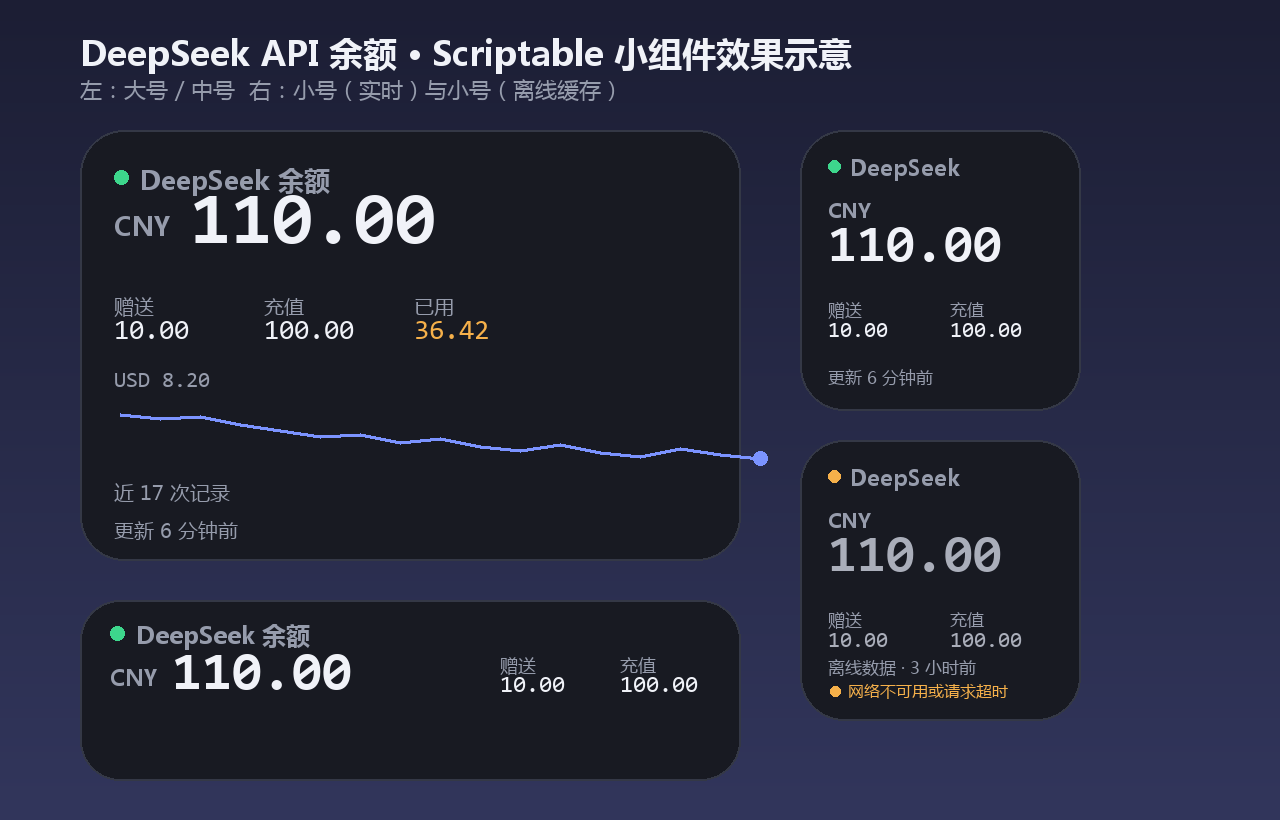
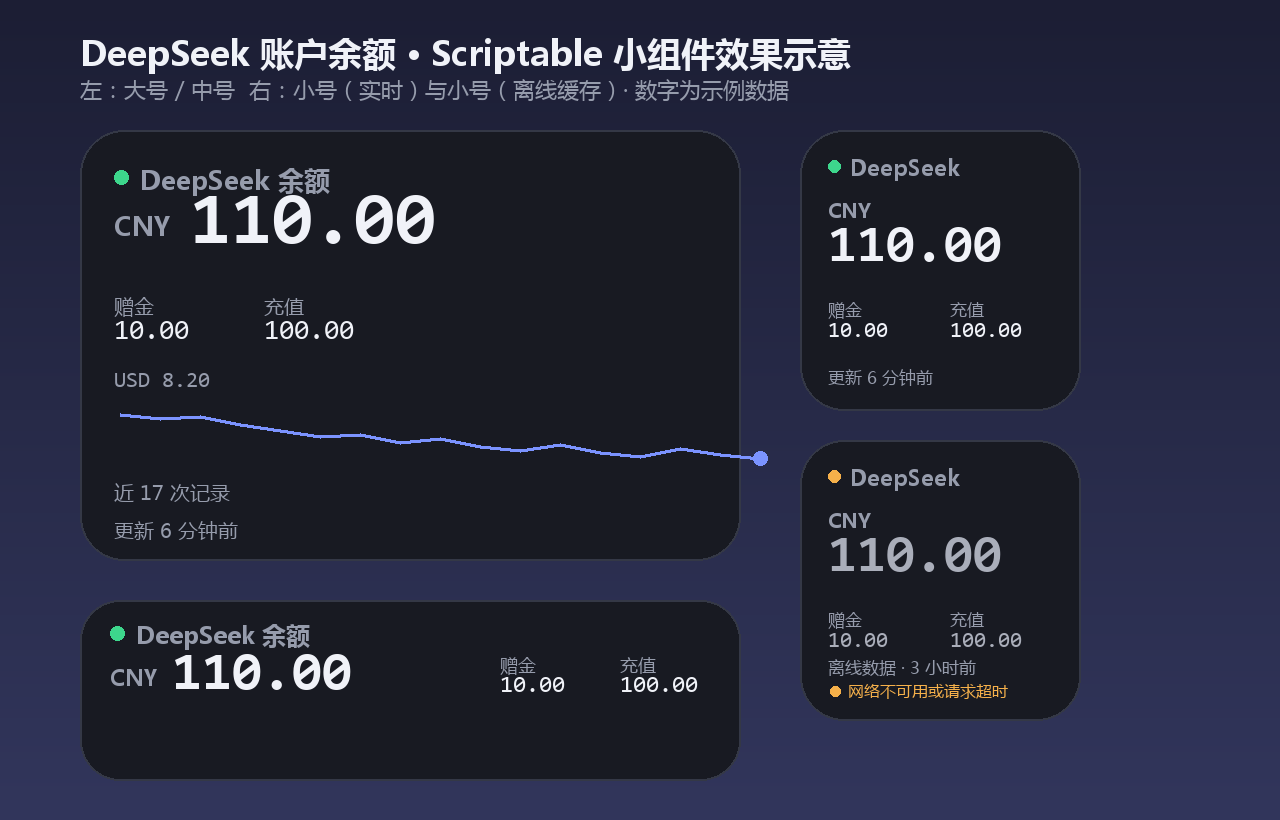
fix: drop misleading 'used' figure, clarify balance vs usage
- 移除组件里的「已用」行：接口语义是 total_balance = granted + topped_up，
  该推导值恒为 0，容易被误读成 token 用量
- 赠送 -> 赠金，与官方文案（未过期的赠金余额）一致
- 效果图改用真实构成的示例数据并标注
- README 增加「显示的是账户余额而非用量」说明与官方文档链接

diff --git a/DeepSeekBalance.js b/DeepSeekBalance.js
@@ -386,10 +386,14 @@ function buildDetailRows(root, primary, compact) {
     t2.textColor = color || C.text;
   };
 
-  mk("赠送", toNumber(primary.granted).toFixed(2));
+  // 接口语义（官方文档 /user/balance）：
+  //   total_balance      = 总的可用余额，包括赠金和充值余额
+  //   granted_balance    = 未过期的赠金余额
+  //   topped_up_balance  = 充值余额
+  // 即 total = granted + toppedUp，所以这里只列构成，不推导"已用"
+  // （曾经加过一行"已用 = 赠送+充值-总额"，它恒为 0，容易让人误以为显示的是用量）
+  mk("赠金", toNumber(primary.granted).toFixed(2));
   mk("充值", toNumber(primary.toppedUp).toFixed(2));
-  const used = Math.max(0, toNumber(primary.granted) + toNumber(primary.toppedUp) - toNumber(primary.total));
-  if (used > 0.005) mk("已用", used.toFixed(2), C.warn);
   return row;
 }
 
@@ -535,7 +539,7 @@ function detailText(state) {
   (state.data.balanceInfos || []).forEach((b) => {
     lines.push("[" + b.currency + "]");
     lines.push("  总额：" + toNumber(b.total).toFixed(2));
-    lines.push("  赠送：" + toNumber(b.granted).toFixed(2));
+    lines.push("  赠金：" + toNumber(b.granted).toFixed(2));
     lines.push("  充值：" + toNumber(b.toppedUp).toFixed(2));
     lines.push("");
   });

diff --git a/index.html b/index.html
@@ -41,7 +41,7 @@
 <body>
 <div class="wrap">
   <h1>DeepSeek 余额小组件 <span class="tag">Scriptable</span></h1>
-  <div class="muted">在 iPhone 桌面直接看 DeepSeek API 余额 · 赠送 / 充值 / 已用 · 多币种 · 离线缓存</div>
+  <div class="muted">在 iPhone 桌面直接看 DeepSeek 账户余额 · 赠金 / 充值构成 · 多币种 · 离线缓存</div>
 
   <div class="card">
     <h2>① 复制脚本</h2>

diff --git a/make_preview.py b/make_preview.py
@@ -45,7 +45,7 @@ d.text((x0 + 60, y0 + 32), "DeepSeek 余额", font=f(MSYHB, 26), fill=DIM)
 d.text((x0 + 34, y0 + 78), "CNY", font=f(MSYHB, 26), fill=DIM)
 d.text((x0 + 110, y0 + 58), "110.00", font=f(CONSB, 74), fill=TEXT)
 
-labels = [("赠送", "10.00", TEXT), ("充值", "100.00", TEXT), ("已用", "36.42", WARN)]
+labels = [("赠金", "10.00", TEXT), ("充值", "100.00", TEXT)]
 cx = x0 + 34
 for name, val, col in labels:
     d.text((cx, y0 + 162), name, font=f(MSYH, 20), fill=DIM)
@@ -74,7 +74,7 @@ d.text((mx0 + 56, my0 + 18), "DeepSeek 余额", font=f(MSYHB, 24), fill=DIM)
 d.text((mx0 + 30, my0 + 62), "CNY", font=f(MSYHB, 22), fill=DIM)
 d.text((mx0 + 92, my0 + 48), "110.00", font=f(CONSB, 54), fill=TEXT)
 cx = mx0 + 420
-for name, val in [("赠送", "10.00"), ("充值", "100.00")]:
+for name, val in [("赠金", "10.00"), ("充值", "100.00")]:
     d.text((cx, my0 + 52), name, font=f(MSYH, 18), fill=DIM)
     d.text((cx, my0 + 74), val, font=f(CONS, 24), fill=TEXT)
     cx += 120
@@ -87,7 +87,7 @@ d.ellipse((sx0 + 28, sy0 + 30, sx0 + 40, sy0 + 42), fill=OK)
 d.text((sx0 + 50, sy0 + 22), "DeepSeek", font=f(MSYHB, 22), fill=DIM)
 d.text((sx0 + 28, sy0 + 66), "CNY", font=f(MSYHB, 20), fill=DIM)
 d.text((sx0 + 28, sy0 + 92), "110.00", font=f(CONSB, 52), fill=TEXT)
-d.text((sx0 + 28, sy0 + 168), "赠送", font=f(MSYH, 17), fill=DIM)
+d.text((sx0 + 28, sy0 + 168), "赠金", font=f(MSYH, 17), fill=DIM)
 d.text((sx0 + 28, sy0 + 190), "10.00", font=f(CONS, 22), fill=TEXT)
 d.text((sx0 + 150, sy0 + 168), "充值", font=f(MSYH, 17), fill=DIM)
 d.text((sx0 + 150, sy0 + 190), "100.00", font=f(CONS, 22), fill=TEXT)
@@ -101,7 +101,7 @@ d.ellipse((ox0 + 28, oy0 + 30, ox0 + 40, oy0 + 42), fill=WARN)
 d.text((ox0 + 50, oy0 + 22), "DeepSeek", font=f(MSYHB, 22), fill=DIM)
 d.text((ox0 + 28, oy0 + 66), "CNY", font=f(MSYHB, 20), fill=DIM)
 d.text((ox0 + 28, oy0 + 92), "110.00", font=f(CONSB, 52), fill=(170, 174, 186))
-d.text((ox0 + 28, oy0 + 168), "赠送", font=f(MSYH, 17), fill=DIM)
+d.text((ox0 + 28, oy0 + 168), "赠金", font=f(MSYH, 17), fill=DIM)
 d.text((ox0 + 28, oy0 + 190), "10.00", font=f(CONS, 22), fill=(170, 174, 186))
 d.text((ox0 + 150, oy0 + 168), "充值", font=f(MSYH, 17), fill=DIM)
 d.text((ox0 + 150, oy0 + 190), "100.00", font=f(CONS, 22), fill=(170, 174, 186))
@@ -110,8 +110,8 @@ d.ellipse((ox0 + 30, oy1 - 34, ox0 + 40, oy1 - 24), fill=WARN)
 d.text((ox0 + 48, oy1 - 40), "网络不可用或请求超时", font=f(MSYH, 16), fill=WARN)
 
 # 底部说明
-d.text((80, 30), "DeepSeek API 余额 · Scriptable 小组件效果示意", font=f(MSYHB, 34), fill=TEXT)
-d.text((80, 74), "左：大号 / 中号  右：小号（实时）与小号（离线缓存）", font=f(MSYH, 22), fill=DIM)
+d.text((80, 30), "DeepSeek 账户余额 · Scriptable 小组件效果示意", font=f(MSYHB, 34), fill=TEXT)
+d.text((80, 74), "左：大号 / 中号  右：小号（实时）与小号（离线缓存）· 数字为示例数据", font=f(MSYH, 22), fill=DIM)
 
 img.save("preview.png")
 print("preview.png", img.size)

diff --git a/README.md b/README.md
@@ -1,6 +1,6 @@
 # DeepSeek API 余额 · iOS 桌面小组件
 
-在 iPhone / iPad 主屏上直接看 DeepSeek 开放平台账户余额（总额、赠送、充值、已用、多币种、历史走势）。
+在 iPhone / iPad 主屏上直接看 DeepSeek 开放平台**账户余额**（总可用余额、赠金构成、充值构成、多币种、历史走势）。
 
 方案：**Scriptable 小组件**。不需要 Mac、不需要 Xcode、不需要 Apple 开发者账号，App Store 装一个免费 App 即可。
 
@@ -116,7 +116,10 @@ node _transfer/serve.mjs
 
 - **圆点颜色**：绿 = 实时数据，黄 = 网络失败正在显示缓存，红 = 出错 / 未配 Key。
 - **大号数字**：主货币总额（`total_balance`）。
-- **赠送 / 充值 / 已用**：`granted_balance`、`topped_up_balance`，以及两者之和减总额得到的已用量。
+- **赠金 / 充值**：`granted_balance`（未过期的赠金余额）与 `topped_up_balance`（充值余额），两者之和即上面的总额。
+  > 显示的是**账户余额**，不是 token 用量。接口是官方 `GET /user/balance`（[文档](https://api-docs.deepseek.com/zh-cn/api/get-user-balance)），
+  > 字段含义：`total_balance` = 总的可用余额（含赠金+充值）。token 消耗 / 消费金额请看 [platform.deepseek.com/usage](https://platform.deepseek.com/usage)，
+  > 该数据**没有公开 API**，所以小组件取不到。
 - **多币种**：中号/大号会额外列出一行其它币种（如 `USD 8.20`）。
 - **大号尺寸**：底部的迷你折线是最近若干次抓取的总余额走势（本地最多存 96 条）。
 - **底部时间**：`更新 12 分钟前`；离线时显示 `离线数据 · 3 小时前`。
